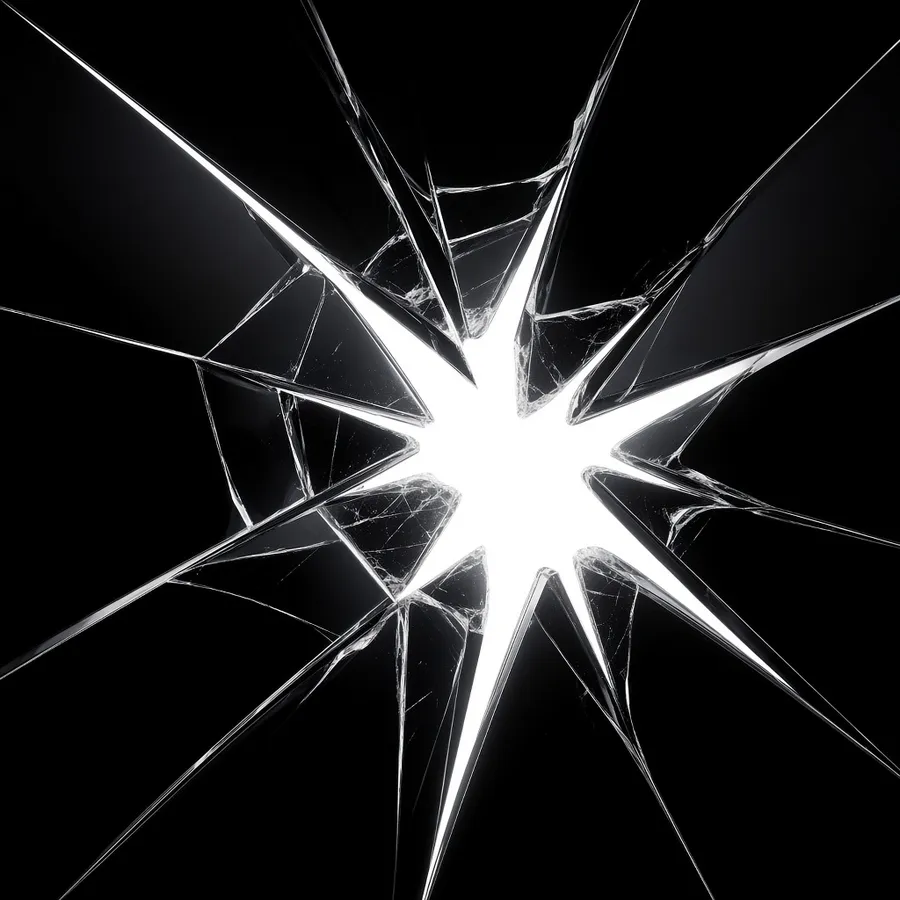
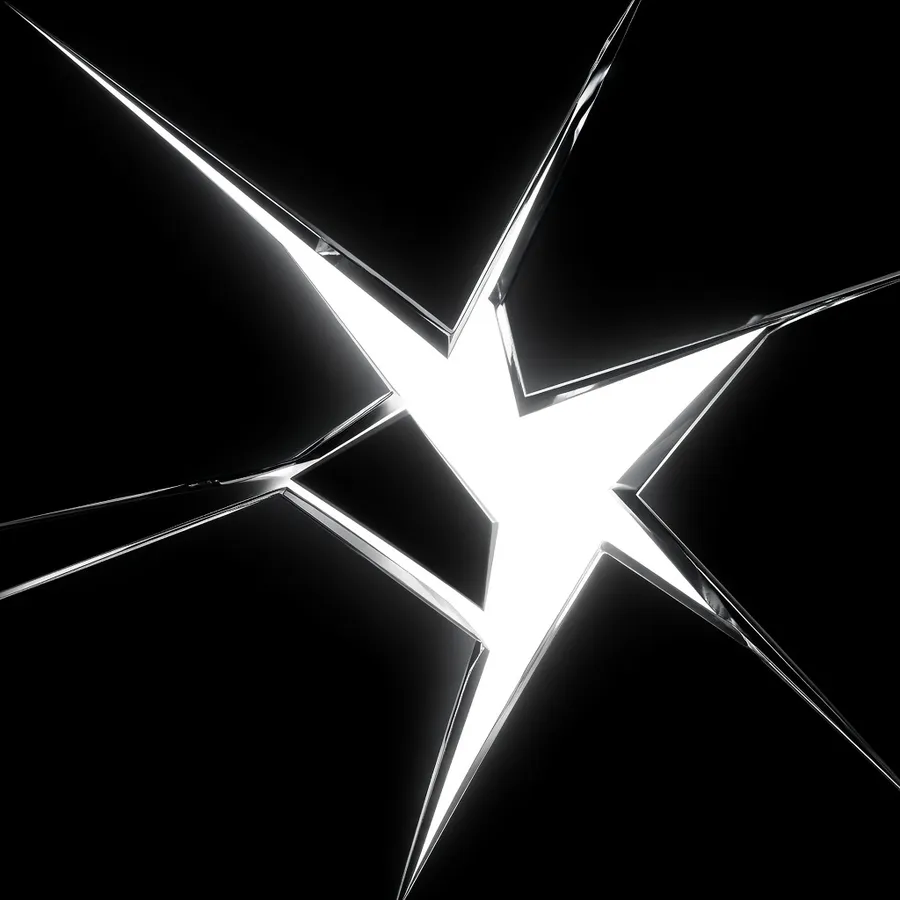
GLASSBREAK: use original break art everywhere, edge fade

diff --git a/style.css b/style.css
@@ -77,3 +77,5 @@ h1{font:700 clamp(40px,6vw,72px)/1.02 Chakra;letter-spacing:-.01em}h1 em{font-st
 .hero h1,.hero .lede{text-shadow:0 2px 24px rgba(0,0,0,.85)}
 .brand img.mark{border-radius:6px}
 html,body{overflow-x:clip}
+.herobg{-webkit-mask-image:linear-gradient(90deg,transparent,#000 18%,#000 82%,transparent);mask-image:linear-gradient(90deg,transparent,#000 18%,#000 82%,transparent)}
+@media(max-width:600px){.herobg{-webkit-mask-image:none;mask-image:none}}
